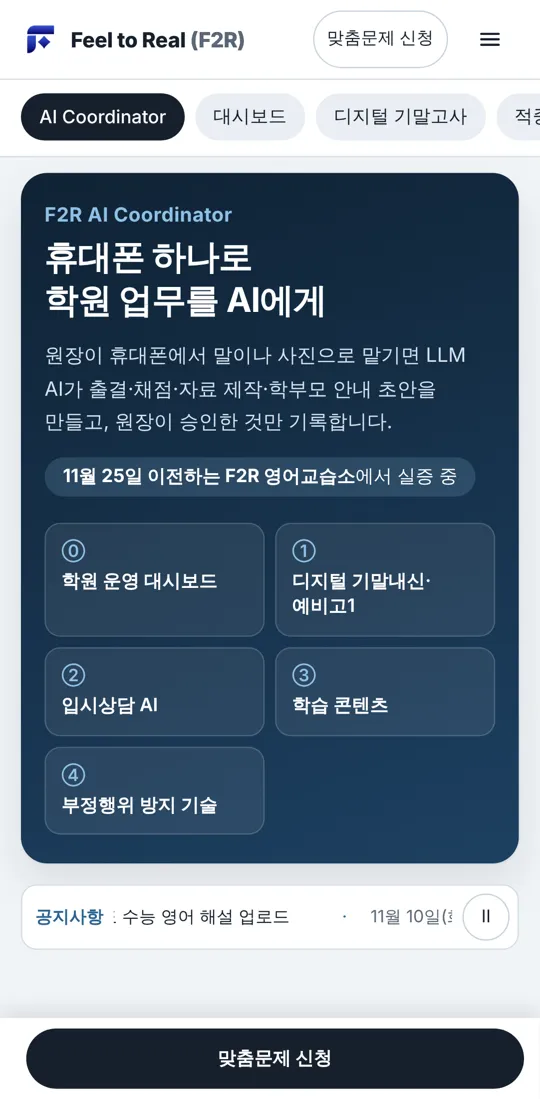
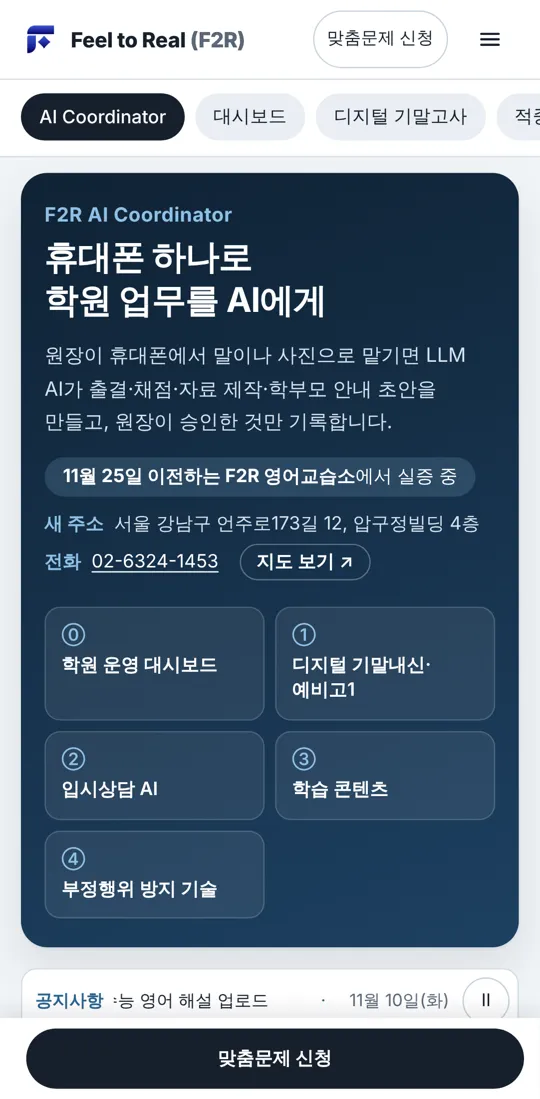
[FEAT] 홈 Coordinator 첫 화면에 이전 교습소 주소·전화·지도 링크 + e2e 첫 화면 기준 갱신
- 새 주소: 서울 강남구 언주로173길 12, 압구정빌딩 4층 · 전화 02-6324-1453 · 네이버 지도 검색 링크
- e2e(home-responsive·home-promo·home-navigation): 첫 화면 확인 대상을 #coordinator로, 메뉴 순서·상단 링크 전환 폭 1424px 반영

Claude-Session: https://claude.ai/code/session_0198GJFVB2nxQQ9aFs8s89Q3

diff --git a/e2e/unified-assistant/home-responsive.spec.js b/e2e/unified-assistant/home-responsive.spec.js
@@ -47,7 +47,7 @@ for (const font of ['fallback', 'pretendard']) {
           const rect = n => { const r = n.getBoundingClientRect(); return { x:r.x, y:r.y + scrollY, right:r.right, bottom:r.bottom + scrollY }; };
           return { overflow:document.documentElement.scrollWidth - innerWidth,
             logo:rect(document.querySelector('.hl-logo')), actions:rect(document.querySelector('.hl-actions')),
-            offer:rect(document.querySelector('#homeHero .hero-dexam .hero-cta .hl-btn-dark')), promo:rect(document.querySelector('#examPromo')),
+            offer:rect(document.querySelector('#coordinator h2')), promo:rect(document.querySelector('#examPromo')),
             keys:[...document.querySelectorAll('[data-home-nav]')].map(n=>n.dataset.homeNav) };
         });
         fs.mkdirSync(output, { recursive:true });
@@ -58,13 +58,13 @@ for (const font of ['fallback', 'pretendard']) {
         expect(metrics.logo.right).toBeLessThanOrEqual(metrics.actions.x);
         expect(metrics.actions.right).toBeLessThanOrEqual(width);
         expect(metrics.offer.bottom).toBeLessThanOrEqual(height);
-        // 첫 화면: 디지털 영어 기말고사 배너의 「시험 보러 가기」. 홍보 영상(서수니·세븐)은 배너 옆(휴대폰은 바로 아래)에 이어진다.
+        // 첫 화면(2026-11-21 개편): F2R AI Coordinator 대표 문구가 첫 화면 안에 보인다. 배너·홍보 영상은 ⓪ 대시보드 아래에 이어진다.
         expect(metrics.promo.y).toBeGreaterThan(0);
-        expect(metrics.keys).toEqual(['home','request','wiki','game','agent','dashboard','chart','guide']);
+        expect(metrics.keys).toEqual(['home','dashboard','wiki','request','guide','agent','game','chart']);
         await expect(page.locator('#homePaneTitle')).toHaveText('Feel to Real (F2R) 홈');
         await expect(page.locator('#homeMenuPanel')).toBeHidden();
-        await expect(page.locator('.hl-links')).toBeVisible({ visible: width > 1400 });
-        await expect(page.locator('.hl-chips')).toBeVisible({ visible: width <= 1400 });
+        await expect(page.locator('.hl-links')).toBeVisible({ visible: width > 1424 });
+        await expect(page.locator('.hl-chips')).toBeVisible({ visible: width <= 1424 });
         await expect(page.locator('#homeNotice')).toBeVisible();
         await expect(page.locator('#homeNotice .home-notice-group').first()).toContainText('압구정중3 기출문제 적중률 분석 리포트');
         await expect(page.locator('#homeNotice .home-notice-group').first()).toContainText('모의고사 위키 지문 복습 문제 업로드');

diff --git a/src/main/resources/static/css/home_winter.css b/src/main/resources/static/css/home_winter.css
@@ -457,6 +457,10 @@
 .hw-coord-hero h2 { margin: 0 0 12px; font-size: 34px; line-height: 1.25; letter-spacing: -.02em; color: #fff; }
 .hw-coord-lead { margin: 0 0 14px; max-width: 640px; font-size: 15px; line-height: 1.7; color: #D6E2EE; }
 .hw-coord-site { display: inline-block; margin: 0 0 20px; padding: 6px 14px; border-radius: 999px; background: rgba(143,192,230,.18); font-size: 14px; color: #fff; }
+.hw-coord-addr { display: flex; flex-wrap: wrap; align-items: center; gap: 6px 16px; margin: -8px 0 20px; font-style: normal; font-size: 14px; color: #D6E2EE; }
+.hw-coord-addr b { margin-right: 4px; color: var(--hw-sweep); font-weight: 700; }
+.hw-coord-addr a { color: #fff !important; text-decoration: underline; text-underline-offset: 3px; }
+.hw-coord-addr .hw-coord-map { padding: 4px 12px; border-radius: 999px; border: 1px solid rgba(255,255,255,.3); text-decoration: none; font-weight: 600; }
 .hw-coord-list { list-style: none; margin: 0; padding: 0; display: grid; grid-template-columns: repeat(5, minmax(0, 1fr)); gap: 8px; }
 .hw-coord-list a { display: flex; flex-direction: column; gap: 4px; height: 100%; box-sizing: border-box; padding: 12px; border-radius: 12px; background: rgba(255,255,255,.08); border: 1px solid rgba(255,255,255,.16); color: #fff !important; font-size: 14px; font-weight: 600; line-height: 1.4; }
 .hw-coord-list a span { font-size: 13px; color: var(--hw-sweep); }

diff --git a/e2e/unified-assistant/home-promo.spec.js b/e2e/unified-assistant/home-promo.spec.js
@@ -29,9 +29,10 @@ for (const width of [360, 390, 430, 1440]) {
       await isolate(page);
       await page.goto('/');
       const video = page.locator('#examPromoVideo');
-      await expect(page.locator('main > section').first()).toHaveAttribute('id', 'pass-offer');
-      expect(await page.locator('main > section').evaluateAll(sections => sections.slice(0, 4).map(s => s.id)))
-        .toEqual(['pass-offer', 'digital-exam', 'dexam-guide', 'counsel']); // 서비스 지도는 첫 화면 오른쪽 칸(#pass-offer 안)
+      // 2026-11-21 개편: Coordinator → 하는 일 → ⓪ 대시보드 → 배너·홍보 영상(서비스 지도는 #pass-offer 안) → ① 디지털 기말내신
+      await expect(page.locator('main > section').first()).toHaveAttribute('id', 'coordinator');
+      expect(await page.locator('main > section').evaluateAll(sections => sections.slice(0, 6).map(s => s.id)))
+        .toEqual(['coordinator', 'coordinator-work', 'academy-dashboard', 'pass-offer', 'digital-exam', 'dexam-guide']);
       await expect(page.locator('#service > section').first()).toHaveAttribute('id', 'request');
       // The promo sits on the first screen next to the banners (below them on phones) and starts muted once half visible.
       await expect(page.locator('#homeHero')).toBeVisible();

diff --git a/src/main/resources/templates/public/landing.html b/src/main/resources/templates/public/landing.html
@@ -195,6 +195,11 @@
         <h2 id="coordTitle">휴대폰 하나로<br>학원 업무를 AI에게</h2>
         <p class="hw-coord-lead">원장이 휴대폰에서 말이나 사진으로 맡기면 LLM AI가 출결·채점·자료 제작·학부모 안내 초안을 만들고, 원장이 승인한 것만 기록합니다.</p>
         <p class="hw-coord-site"><b>11월 25일 이전하는 F2R 영어교습소</b>에서 <span class="hw-nowrap">실증 중</span></p>
+        <address class="hw-coord-addr">
+          <span><b>새 주소</b> 서울 강남구 언주로173길 12, 압구정빌딩 4층</span>
+          <span><b>전화</b> <a href="tel:02-6324-1453">02-6324-1453</a></span>
+          <a class="hw-coord-map" href="https://map.naver.com/p/search/%EC%84%9C%EC%9A%B8%20%EA%B0%95%EB%82%A8%EA%B5%AC%20%EC%96%B8%EC%A3%BC%EB%A1%9C173%EA%B8%B8%2012" target="_blank" rel="noopener">지도 보기 <span aria-hidden="true">↗</span></a>
+        </address>
         <ol class="hw-coord-list" aria-label="교습소에서 실증하는 기능">
           <li><a href="#academy-dashboard"><span>⓪</span>학원 운영 대시보드</a></li>
           <li><a href="#digital-exam"><span>①</span>디지털 기말내신·예비고1</a></li>

diff --git a/src/test/java/f2r/tutor_solution/private_tutor_solution_back/template/LandingEdunovaTemplateContractTest.java b/src/test/java/f2r/tutor_solution/private_tutor_solution_back/template/LandingEdunovaTemplateContractTest.java
@@ -120,6 +120,8 @@ class LandingEdunovaTemplateContractTest {
     assertThat(hero).contains("F2R AI Coordinator", "휴대폰 하나로<br>학원 업무를 AI에게", "11월 25일 이전하는 F2R 영어교습소",
         "실증 중", "href=\"#academy-dashboard\"", "href=\"#digital-exam\"", "href=\"#counsel\"", "href=\"#learning-content\"",
         "href=\"#exam-security\"", "LLM AI");
+    // 이전할 교습소 주소·전화·지도(2026-11-21 사용자 지시)
+    assertThat(hero).contains("서울 강남구 언주로173길 12, 압구정빌딩 4층", "href=\"tel:02-6324-1453\"", "https://map.naver.com/p/search/");
     assertThat(work.split("class=\"hw-card\"", -1)).hasSize(5);
     assertThat(work).contains("말·사진으로 지시", "출결·채점", "자료 제작·학부모 안내", "원장 승인 후 기록");
     assertThat(dash).contains("원장 로그인 후 사용", "href=\"/dashboard\"", "href=\"/ledger\"", "가명 자료",

diff --git a/docs/verification/home-coordinator-20261121/README.md b/docs/verification/home-coordinator-20261121/README.md
@@ -7,7 +7,7 @@
 
 | # | 영역 | id | 비고 |
 |---|---|---|---|
-| 1 | F2R AI Coordinator(대표 문구) | `#coordinator` | 새로 만듦. "휴대폰 하나로 학원 업무를 AI에게", "11월 25일 이전하는 F2R 영어교습소에서 실증 중", 실증 기능 ⓪~④ 바로가기 |
+| 1 | F2R AI Coordinator(대표 문구) | `#coordinator` | 새로 만듦. "휴대폰 하나로 학원 업무를 AI에게", "11월 25일 이전하는 F2R 영어교습소에서 실증 중", 새 주소(서울 강남구 언주로173길 12, 압구정빌딩 4층)·전화·네이버 지도 링크, 실증 기능 ⓪~④ 바로가기 |
 | — | 공지사항 줄 | `#homeNotice` | 대표 문구 아래로 옮김(휴대폰 첫 화면에 대표 문구가 먼저 보이게) |
 | 2 | Coordinator가 하는 일 | `#coordinator-work` | 새로 만듦. 카드 4개: 말·사진 지시 → 출결·채점 → 자료 제작·학부모 안내 → 원장 승인 후 기록 |
 | 2-1 | ⓪ 학원 운영 대시보드 | `#academy-dashboard` | 새로 만듦. 가명 자료 예시 캡처 + "원장 로그인 후 사용" + `/dashboard`·`/ledger` |
@@ -59,6 +59,8 @@
 ![PC 1440](home-first-pc.webp)
 
 ## 테스트
+
+- e2e(`e2e/unified-assistant` home-responsive·home-promo·home-navigation): 첫 화면 기준을 `#homeHero` 「시험 보러 가기」에서 `#coordinator` 대표 문구로, 메뉴 순서·상단 링크 전환 폭(1424px)을 새 기준으로 갱신. 같은 항목을 로컬 앱에서 별도 스크립트로 확인(360·390·430·768·1440 폭, 실패 0).
 
 - `LandingEdunovaTemplateContractTest` 등 홈 템플릿 계약 59건 통과. 순서·메뉴 단언을 새 순서로 고치고, 새 섹션 사실 문구 계약 1건 추가.
 - CI JS 목록 332건 통과(`home_workspace` 메뉴 순서 단언 갱신, `home_motion` 실증 근거 모션 1건 추가).
